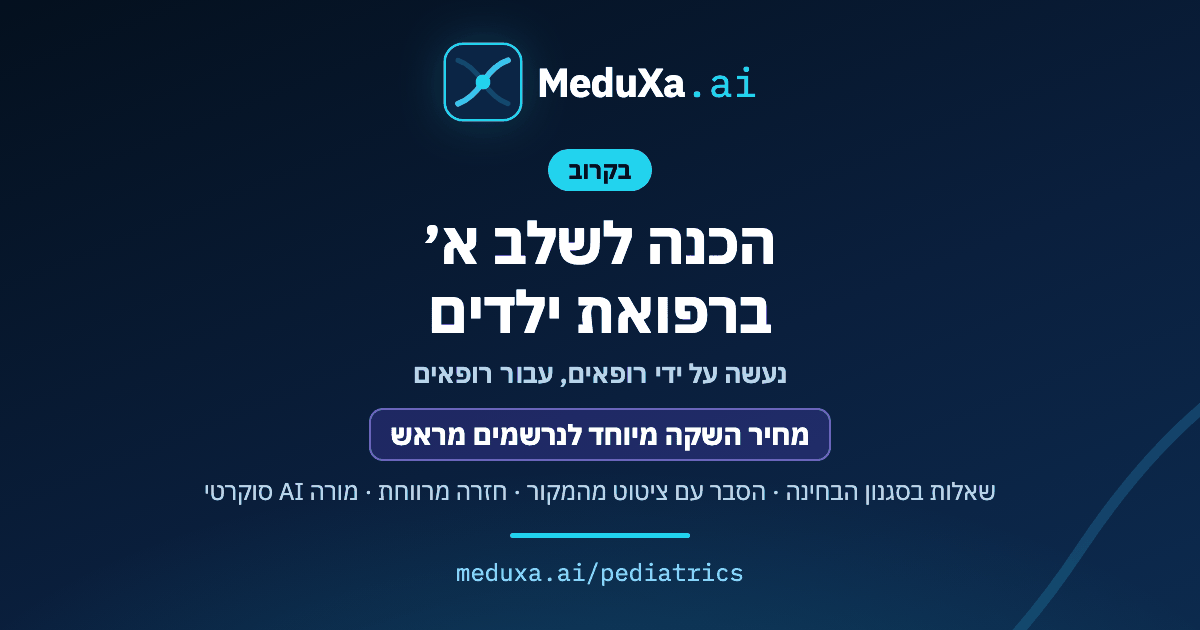
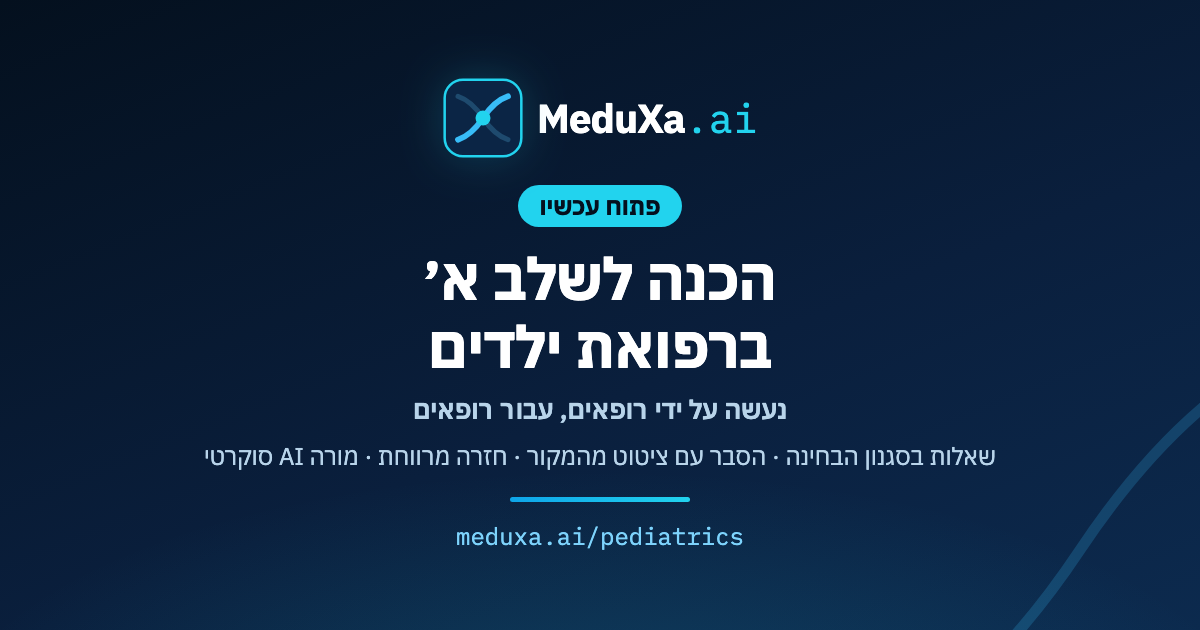
chore(peds): update promo images to live state and bump og:image v3

Changed region(s): [[0.1542, 0.0603, 0.8325, 0.8143], [0.37, 0.8444, 0.6167, 0.9349]]

diff --git a/pediatrics.html b/pediatrics.html
@@ -38,7 +38,7 @@
 <meta property="og:title" content="הכנה לשלב א׳ ברפואת ילדים | MeduXa.ai" />
 <meta property="og:description" content="שאלות בסגנון הבחינה שעברו ביקורת מומחה ברפואת ילדים, הסבר עם ציטוט מהמקור ומורה AI סוקרטי. ההכנה פתוחה עכשיו, ואפשר להתחיל ללמוד חינם." />
 <meta property="og:url" content="https://meduxa.ai/pediatrics" />
-<meta property="og:image" content="https://meduxa.ai/og-pediatrics.png?v=2" />
+<meta property="og:image" content="https://meduxa.ai/og-pediatrics.png?v=3" />
 <meta property="og:image:width" content="1200" />
 <meta property="og:image:height" content="630" />
 <meta property="og:image:alt" content="MeduXa.ai: ההכנה לשלב א׳ ברפואת ילדים פתוחה עכשיו" />
@@ -46,7 +46,7 @@
 <meta name="twitter:card" content="summary_large_image" />
 <meta name="twitter:title" content="הכנה לשלב א׳ ברפואת ילדים | MeduXa.ai" />
 <meta name="twitter:description" content="שאלות בסגנון הבחינה שעברו ביקורת מומחה ברפואת ילדים, הסבר עם ציטוט מהמקור ומורה AI סוקרטי. ההכנה פתוחה עכשיו, ואפשר להתחיל ללמוד חינם." />
-<meta name="twitter:image" content="https://meduxa.ai/og-pediatrics.png?v=2" />
+<meta name="twitter:image" content="https://meduxa.ai/og-pediatrics.png?v=3" />
 <meta name="robots" content="index, follow" />
 <script type="application/ld+json">
 {"@context":"https://schema.org","@type":"WebPage","@id":"https://meduxa.ai/pediatrics#webpage","url":"https://meduxa.ai/pediatrics","name":"הכנה לשלב א׳ ברפואת ילדים | MeduXa.ai","description":"MeduXa: הכנה לשלב א׳ ברפואת ילדים. שאלות בסגנון הבחינה עם ביקורת מומחה, הסבר עם ציטוט מהמקור ומורה AI סוקרטי. ההכנה פתוחה עכשיו, ואפשר להתחיל חינם.","inLanguage":"he","isPartOf":{"@type":"WebSite","name":"MeduXa.ai","url":"https://meduxa.ai/"}}
